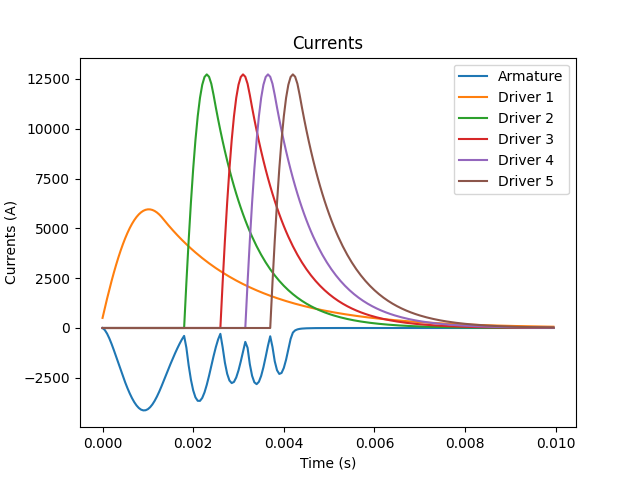
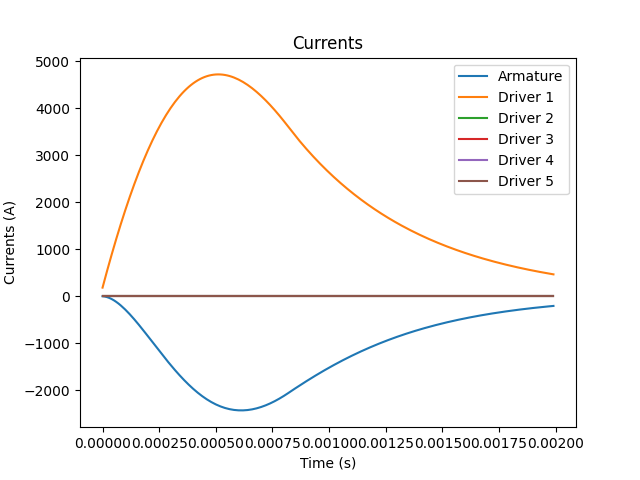
Stress calculations

diff --git a/Simulation/main.py b/Simulation/main.py
@@ -10,19 +10,19 @@ copper = parameters.copper
 # Material, inner radius, length, layers, wire diameter):
 armature = classes.Coil(copper, 0.0125, 0.1, 1, 0.001024)
 
-driver1 = classes.Coil(copper, 0.015, 0.1, 2, 0.00205)
-driver2 = classes.Coil(copper, 0.015, 0.1, 1, 0.00205)
-driver3 = classes.Coil(copper, 0.015, 0.1, 1, 0.00205)
-driver4 = classes.Coil(copper, 0.015, 0.1, 1, 0.00205)
-driver5 = classes.Coil(copper, 0.015, 0.1, 1, 0.00205)
+driver1 = classes.Coil(copper, 0.015, 0.1, 1, 0.00129)
+driver2 = classes.Coil(copper, 0.015, 0.1, 1, 0.00129)
+driver3 = classes.Coil(copper, 0.015, 0.1, 1, 0.00129)
+driver4 = classes.Coil(copper, 0.015, 0.1, 1, 0.00129)
+driver5 = classes.Coil(copper, 0.015, 0.1, 1, 0.00129)
 
 # Stages
 # Coil, position, trigger position, capacitance, charge voltage
-stage1 = classes.Stage(driver1, 0, 0, 0.003 * 2, 1000)
-stage2 = classes.Stage(driver2, 0.1, 0.1, 0.003 * 2, 1000)
-stage3 = classes.Stage(driver3, 0.2, 0.2, 0.003 * 2, 1000)
-stage4 = classes.Stage(driver4, 0.3, 0.3, 0.003 * 2, 1000)
-stage5 = classes.Stage(driver5, 0.4, 0.4, 0.003 * 2, 1000)
+stage1 = classes.Stage(driver1, 0.0, 0.0, 0.003 * 1, 1000)
+stage2 = classes.Stage(driver2, 0.1, 0.1, 0.003 * 1, 1000)
+stage3 = classes.Stage(driver3, 0.2, 0.2, 0.003 * 1, 1000)
+stage4 = classes.Stage(driver4, 0.3, 0.3, 0.003 * 1, 1000)
+stage5 = classes.Stage(driver5, 0.4, 0.4, 0.003 * 1, 1000)
 
 # Projectile
 # Coil, initial position, mass
@@ -31,11 +31,11 @@ projectile = classes.Projectile(armature, 0.01, 0.1)
 stage_list = [stage1, stage2, stage3, stage4, stage5]
 efficiency = []
 
-runtime = 0.01
-timestep = 0.00005
+runtime = 0.002
+timestep = 0.00001
 
 for step in np.arange(0, runtime, timestep):
-    # Timestep, step, driver list, projectile
+    # Timestep, driver list, projectile
     output = run.run_turn(timestep, stage_list, projectile)
 
     driver_energy_sum = driver1.energy + driver2.energy + driver3.energy + driver4.energy + driver5.energy
@@ -66,26 +66,26 @@ i.set(xlabel='Time (s)', ylabel='Currents (A)', title='Currents')
 i.legend(['Armature', 'Driver 1', 'Driver 2', 'Driver 3', 'Driver 4', 'Driver 5'])
 figi.savefig("currents.png")
 
-figv, v = plt.subplots()
-v.plot(time, projectile.coil.voltage_list)
-for stage in range(len(stage_list)):
-    v.plot(time, stage_list[stage].coil.voltage_list)
-v.set(xlabel='Time (s)', ylabel='Voltages (V)', title='Voltages')
-v.legend(['Armature', 'Driver 1', 'Driver 2', 'Driver 3', 'Driver 4', 'Driver 5'])
-figv.savefig("voltages.png")
+# figv, v = plt.subplots()
+# v.plot(time, projectile.coil.voltage_list)
+# for stage in range(len(stage_list)):
+#     v.plot(time, stage_list[stage].coil.voltage_list)
+# v.set(xlabel='Time (s)', ylabel='Voltages (V)', title='Voltages')
+# v.legend(['Armature', 'Driver 1', 'Driver 2', 'Driver 3', 'Driver 4', 'Driver 5'])
+# figv.savefig("voltages.png")
 
 fign, n = plt.subplots()
 n.plot(time, efficiency)
 n.set(xlabel='Time (s)', ylabel='Efficiency', title='Coilgun Efficiency')
 fign.savefig("efficiency.png")
 
-fige, e = plt.subplots()
-e.plot(time, projectile.coil.energy_list)
-for stage in range(len(stage_list)):
-    e.plot(time, stage_list[stage].coil.energy_list)
-e.set(xlabel='Time (s)', ylabel='Energy (J)', title='Energy')
-e.legend(['Armature', 'Driver 1', 'Driver 2', 'Driver 3', 'Driver 4', 'Driver 5'])
-fige.savefig("energy.png")
+# fige, e = plt.subplots()
+# e.plot(time, projectile.coil.energy_list)
+# for stage in range(len(stage_list)):
+#     e.plot(time, stage_list[stage].coil.energy_list)
+# e.set(xlabel='Time (s)', ylabel='Energy (J)', title='Energy')
+# e.legend(['Armature', 'Driver 1', 'Driver 2', 'Driver 3', 'Driver 4', 'Driver 5'])
+# fige.savefig("energy.png")
 
 # figt, t = plt.subplots()
 # t.plot(time, projectile.coil.temperature_list)
@@ -94,6 +94,23 @@ fige.savefig("energy.png")
 # t.set(xlabel='Time (s)', ylabel='Temperature (K)', title='Temperature')
 # t.legend(['Armature', 'Driver 1', 'Driver 2', 'Driver 3', 'Driver 4', 'Driver 5'])
 # figt.savefig("temperature.png")
+
+
+a1 = stage1.coil.r_inner - stage1.coil.wire_d / 2
+a2 = stage1.coil.r_outer + stage1.coil.wire_d / 2
+w = (a2 - a1) / parameters.stress_element_divisions
+
+figs, (hoop, radial) = plt.subplots(nrows=2)
+hoopc = hoop.contourf(time, np.arange(a1, a2, w), stage1.coil.hoop_stress_list.T, cmap='plasma')
+figs.colorbar(hoopc, ax=hoop)
+hoop.set(xlabel='Time (s)', ylabel='Radial Distance', title='Hoop Stress (Pa)')
+
+radialc = radial.contourf(time, np.arange(a1, a2, w), stage1.coil.radial_stress_list.T, cmap='plasma')
+figs.colorbar(radialc, ax=radial)
+radial.set(xlabel='Time (s)', ylabel='Radial Distance', title='Radial Stress (Pa)')
+
+figs.savefig("stress.png")
+
 
 
 plt.show()

diff --git a/Simulation/methods.py b/Simulation/methods.py
@@ -1,4 +1,5 @@
 import math
+import numpy as np
 import scipy as sp
 import parameters
 
@@ -57,6 +58,35 @@ def solve_currents(stage, projectile, driver_step, armature_step):
     # transfer_eff = pow(M, 2) / (armature.inductance * driver.inductance)
     transfer_eff = 1
     armature.current = transfer_eff * -M / armature.inductance * driver.current * (1 - pow(math.e, -armature_step / armature.tau))
+
+
+def solve_stresses(coil):
+    nu = coil.material.poisson
+    a1 = coil.r_inner - coil.wire_d / 2
+    a2 = coil.r_outer + coil.wire_d / 2
+    alpha = a2 / a1
+
+    w = (a2 - a1) / parameters.stress_element_divisions
+    hoop_stresses = []
+    radial_stresses = []
+
+    for r in np.arange(a1, a2, w):
+        rho = r / a1
+        J = coil.current / coil.wire_area
+        B1 = parameters.mu0 * J * a1 * (alpha - 1)
+        B2 = 0
+
+        K = (alpha * B1 - B2) * J * a1 / (alpha - 1)
+        M = (B2 - B1) * J * a1 / (alpha - 1)
+
+        sigma_theta = K * (2 + nu) / (3 * (alpha + 1)) * (pow(alpha, 2) + alpha + 1 + pow(alpha, 2) / pow(rho, 2) - rho * (1 + 2 * nu) * (alpha + 1) / (2 + nu)) - M * (3 + nu) / 8 * (pow(alpha, 2) + 1 + pow(alpha, 2) / pow(rho, 2) - (1 + 3 * nu) / (3 + nu) * pow(rho, 2))
+        sigma_r = K * (2 + nu) / (3 * (alpha + 1)) * (pow(alpha, 2) + alpha + 1 - pow(alpha, 2) / pow(rho, 2) - (alpha + 1) * rho) - M * (3 + nu) / 8 * (pow(alpha, 2) + 1 - pow(alpha, 2) / pow(rho, 2) - pow(rho, 2))
+
+        hoop_stresses.append(sigma_theta)
+        radial_stresses.append(sigma_r)
+
+    coil.hoop_stress_list = np.vstack((coil.hoop_stress_list, hoop_stresses))
+    coil.radial_stress_list = np.vstack((coil.radial_stress_list, radial_stresses))
 
 
 def increment_time(timestep, coil):

diff --git a/Simulation/classes.py b/Simulation/classes.py
@@ -44,14 +44,18 @@ class Coil:
         self.energy_list = []
         self.temperature_list = []
 
+        self.hoop_stress_list = np.empty((0, parameters.stress_element_divisions))
+        self.radial_stress_list = np.empty((0, parameters.stress_element_divisions))
+        self.radius_list = []
+
         # print("Wire Length", self.wire_length, "m")
         # print("Wire Mass", self.wire_mass, "kg")
+        # print("Wire Diameter", self.wire_d)
+        # print("Layers", self.layers)
         print("Turns", self.turns)
         print("Coil Length", self.length)
-        print("Wire Diameter", self.wire_d)
-        print("Layers", self.layers)
-        # print("Resistance", self.wire_resistance, "Ohm")
-        # print("Inductance", self.inductance, "H")
+        print("Resistance", self.wire_resistance, "Ohm")
+        print("Inductance", self.inductance, "H")
 
     def __str__(self):
         return f"Coil, {self.turns}({self.layers})"
@@ -96,9 +100,10 @@ class Projectile:
 
 
 class Material:
-    def __init__(self, density, heat_capacity, resistivity, alpha):
+    def __init__(self, density, heat_capacity, resistivity, alpha, poisson):
         self.density = density
         self.heat_capacity = heat_capacity
         self.resistivity = resistivity
         self.alpha = alpha
+        self.poisson = poisson
 

diff --git a/Simulation/parameters.py b/Simulation/parameters.py
@@ -6,4 +6,6 @@ mu0 = 4 * np.pi * pow(10, -7)
 ambient_temp = 300
 
 # Density, heat capacity, resistivity, alpha (temperature dependent resistivity coefficient)
-copper = classes.Material(8960, 385, 1.68 * pow(10, -8), 0.00382 * pow(10, -8))
+copper = classes.Material(8960, 385, 1.68 * pow(10, -8), 0.00382 * pow(10, -8), 0.36)
+
+stress_element_divisions = 50

diff --git a/Simulation/run_step.py b/Simulation/run_step.py
@@ -22,6 +22,8 @@ def run_turn(timestep, stage_list, projectile):
         methods.solve_thermals(driver, timestep)
         methods.solve_energy(driver, timestep)
 
+        methods.solve_stresses(driver)
+
         force += methods.magnetic_force(stage, projectile)
 
     methods.increment_time(timestep, armature)
